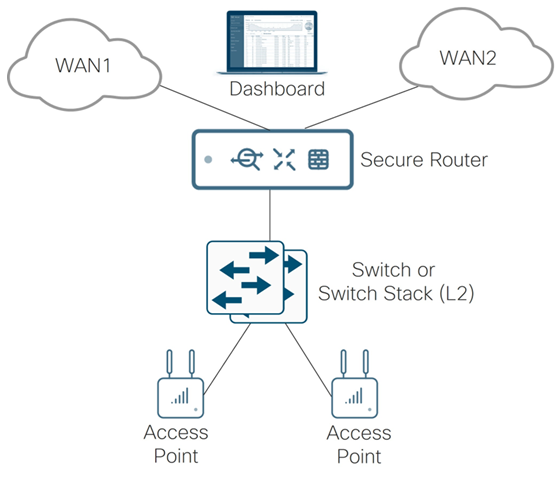
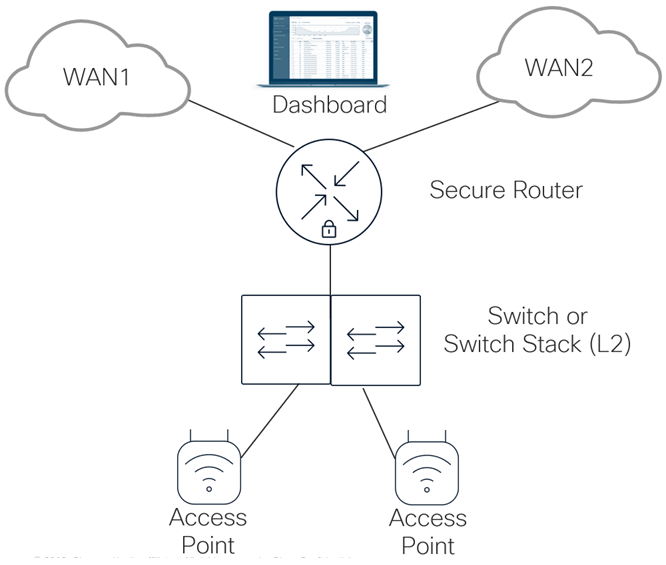
Removed unused figures in /docs/images, corrected typos, and updated figures in docs/Readme.doc (#18)

diff --git a/docs/Readme.md b/docs/Readme.md
@@ -71,7 +71,7 @@ When using an MX platform that only supports 1 Gbps RJ45 or SFP connections, a s
 
 The use of SFP (optical) connectivity may also be needed in situations where the MX secure router and the switch are physically separated from each other.  Distances greater than 100 meters, or facilities where only fiber optic cabling exists between wiring closets may result in the use of the SFP ports.  
 
-When using an MX platform which supports 10 Gbps SFP+ (optical) connections, you must ensure the switch model of the swith or switch stack you choose to deploy within the small branch also supports 10 Gbps SFP+ (optical) connections.
+When using an MX platform which supports 10 Gbps SFP+ (optical) connections, you must ensure the switch model of the switch or switch stack you choose to deploy within the small branch also supports 10 Gbps SFP+ (optical) connections.
 
 ### Small Branch Switch / Switch Stack ###
 For this release of Cisco Unified Branch - Branch as Code, a single switch or switch stack consisting of C9300/X/L (-M versions), C9200/L (-M versions), or MS150/MS130 switches provides LAN connectivity to devices within the small branch.  All switches within a single stack should be the same model.
@@ -92,7 +92,7 @@ Note that the switch may initially need to be manually configured via console co
 
 For Cisco Unified Branch - Branch as Code, cloud managed CW9172 or CW9176 APs provided wireless LAN (WLAN) connectivity within the branch.  Physical port media and speeds, as well as PoE requirements for the AP models are shown in the table below. 
 
-**Table 3. WLAN AP Physical Ports and PoE Requirements**
+**Table 2. WLAN AP Physical Ports and PoE Requirements**
 
 ![WLAN AP Ports](images/wlan-ap-ports.png)
 